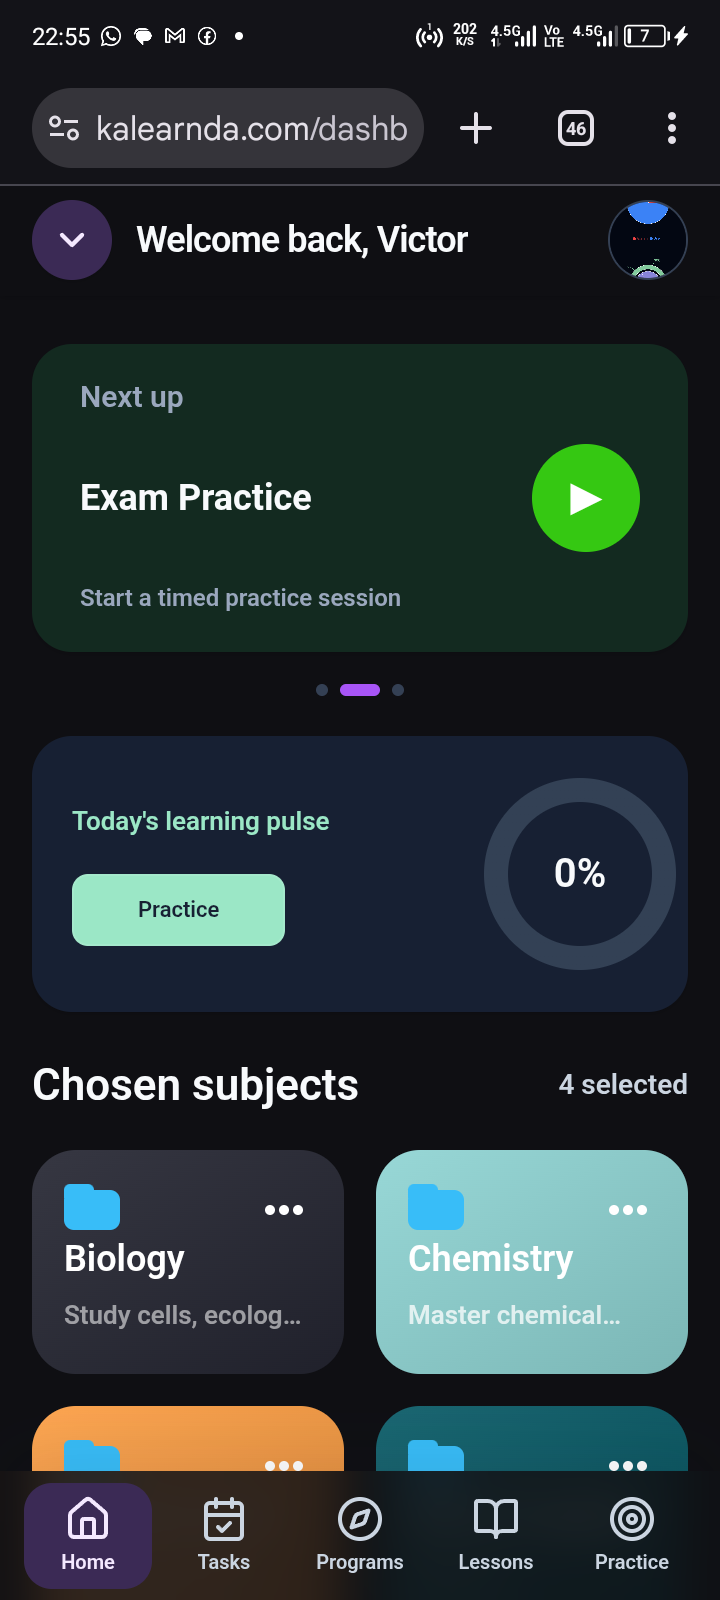
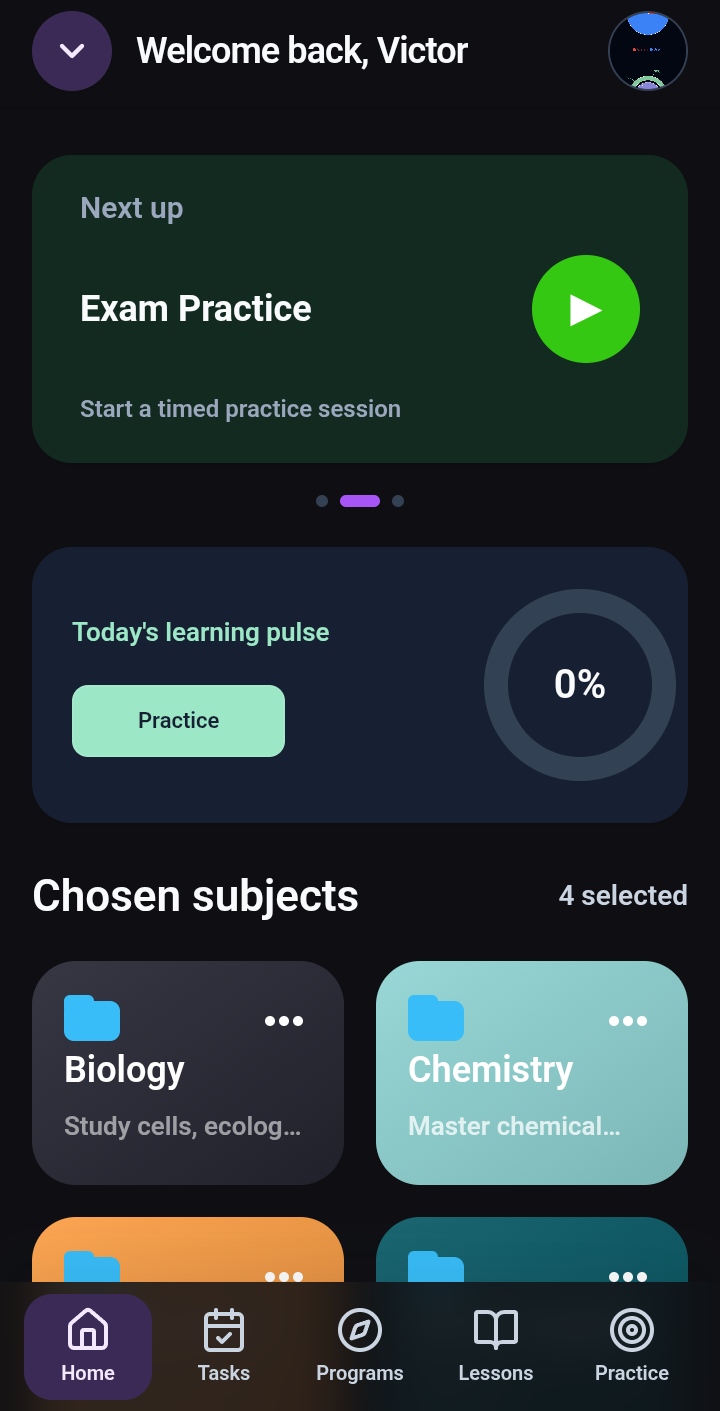
main

diff --git a/lib/content.ts b/lib/content.ts
@@ -21,9 +21,6 @@ export const content = {
   // Hero portrait — used by the 3D circle in the hero.
   heroImage: "/images/hero-image.jpeg",
 
-  // Drop your photo at public/images/photo.png (square crop works best), then set:
-  photo: "/images/photo.png",
-
   status: "Available for new opportunities",
 
   // First-visit welcome quote (shown once per browser).
@@ -41,7 +38,7 @@ export const content = {
     projects:
       "A few things I've built recently. The rest is on GitHub.",
     experience:
-      "Where I&apos;ve learned and worked so far — replace these with your real roles.",
+      "The places I've learned, built, and shipped so far.",
     contact:
       "Have an idea, a project, or a role in mind? My inbox is always open.",
   },
@@ -93,13 +90,12 @@ export const content = {
       // gallery. One string per image (main image first), in order.
       captions: [],
       features: [
-        "Daily QR code generation per employee",
+        "Daily QR code generation per student",
         "QR check-in / check-out scanning",
-        "Employee onboarding and profiles",
+        "Student onboarding and profiles",
         "Attendance reports and exports",
       ],
       emoji: "01",
-      featured: true,
     },
     {
       title: "Hall Clone",
@@ -125,7 +121,6 @@ export const content = {
         "Push notifications",
       ],
       emoji: "02",
-      featured: true,
     },
     {
       title: "Deambrose Socials",
@@ -153,7 +148,6 @@ export const content = {
         "Transaction history and dispute management",
       ],
       emoji: "03",
-      featured: false,
     },
     {
       title: "Kalearnda",
@@ -172,7 +166,6 @@ export const content = {
       captions: [],
       features: [],
       emoji: "04",
-      featured: false,
     },
   ],
 
@@ -183,7 +176,7 @@ export const content = {
       period: "2025 — Present",
       type: "Work",
       description:
-        "replace.me — Add a short line about what you built, owned, or shipped at Harvoxx.",
+        "Build and ship production-ready web features end to end — React and Next.js frontends, clean component architecture, and the APIs behind them.",
       tech: ["React", "Next.js"],
       logo: "", // e.g. "/images/harvoxx-logo.png"
     },
@@ -193,7 +186,7 @@ export const content = {
       period: "2024 — 2025",
       type: "Work",
       description:
-        "replace.me — Add a short line about what you managed and built at TechTan.",
+        "Ran the engineering side of my own tech company — designed, built, and shipped the products the business runs on, including the attendance system, while managing delivery and the team.",
       tech: ["Node.js", "Express"],
       logo: "", // e.g. "/images/techtan-logo.png"
     },

diff --git a/app/layout.tsx b/app/layout.tsx
@@ -17,12 +17,30 @@ const geistMono = Geist_Mono({
 export const metadata: Metadata = {
   metadataBase: new URL(content.siteUrl),
   title: `${content.name} — ${content.role}`,
-  description: content.tagline,
+  description: `${content.tagline} Based ${content.location}.`,
+  applicationName: content.name,
+  category: "Portfolio",
+  keywords: [
+    content.role.toLowerCase(),
+    "portfolio",
+    "web development",
+    "mobile development",
+    "Next.js",
+    "React",
+    "TypeScript",
+    "Node.js",
+  ],
+  authors: [{ name: content.name }],
+  creator: content.name,
+  alternates: {
+    canonical: "/",
+  },
   openGraph: {
     title: `${content.name} — ${content.role}`,
     description: content.tagline,
     url: content.siteUrl,
     siteName: content.name,
+    locale: "en_US",
     type: "website",
   },
   twitter: {

diff --git a/components/accordion.tsx b/components/accordion.tsx
@@ -55,7 +55,7 @@ export function AccordionSection({
   }, [id]);
 
   return (
-    <div id={id} ref={ref} className="mx-auto max-w-7xl scroll-mt-24 px-6 pt-14 pb-20">
+    <div id={id} ref={ref} className="mx-auto max-w-7xl scroll-mt-24 px-4 pt-14 pb-20">
       <button
         type="button"
         onClick={() => setOpen((v) => !v)}
